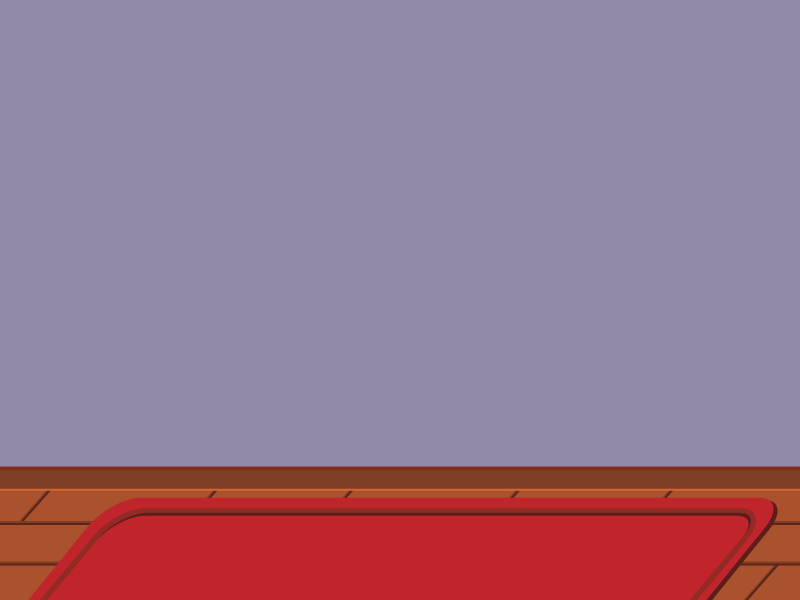
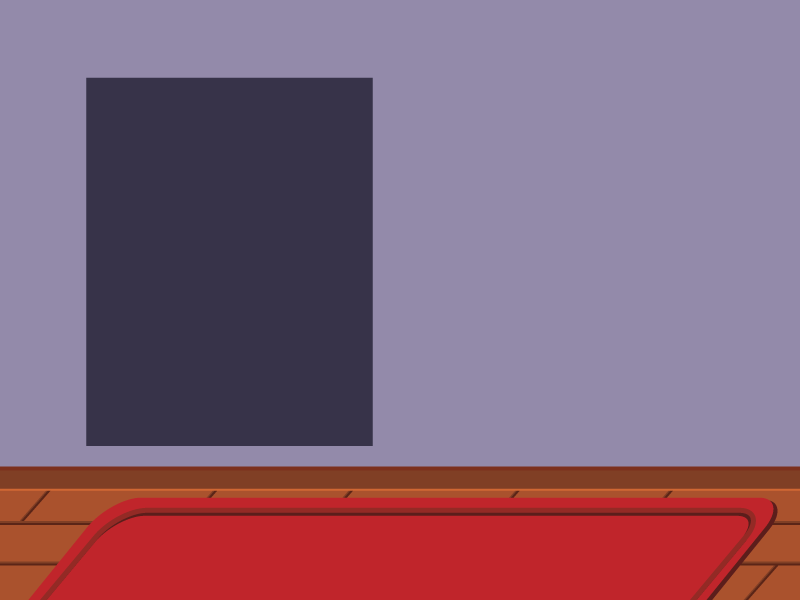
More score calc / new assets

Changed region(s): [[0.0938, 0.12, 0.4688, 0.75]]

diff --git a/src/scripts/state/game.ts b/src/scripts/state/game.ts
@@ -24,7 +24,6 @@ module Alak.State {
         subjectY: number = 76;
         brushSize: number = 5;
 
-        lookingAtSubject: boolean = true;
         palette: Entity.Palette;
         prevMousePos: Phaser.Point;
         debug: Phaser.Text;
@@ -52,13 +51,13 @@ module Alak.State {
             this.add.existing(this.palette);
 
             /*this.paintPots.forEach(function (paintpot: Entity.PaintPot) {
-                this.add.existing(paintpot);
-                paintpot.events.onInputDown.add(this.handleColourChange, this);
-            }, this);*/
+             this.add.existing(paintpot);
+             paintpot.events.onInputDown.add(this.handleColourChange, this);
+             }, this);*/
 
 
             if (this.debugEnabled) {
-                this.debug = new Phaser.Text(this.game, 400, this.game.height - 20, 'Hello', {
+                this.debug = new Phaser.Text(this.game, 10, 10, 'Hello', {
                     font: '12px Arial'
                 });
 
@@ -118,71 +117,88 @@ module Alak.State {
 
             //this.visibleBitmap.fill(237, 232, 218, 0.05);
 
-            /*if (this.debugEnabled) {
+            if (this.debugEnabled) {
                 let paintX = game.input.x - this.easelX;
                 let paintY = game.input.y - this.easelY;
 
                 if (paintX >= 0 && paintY >= 0 && paintX <= this.easelWidth && paintY <= this.easelHeight) {
                     let subjectCol = this.subjectComposite.getPixel(paintX, paintY);
-                    let easelCol = this.visibleBitmap.getPixel(paintX, paintY);
+                    let easelCol = this.finalBitmap.getPixel(paintX, paintY);
 
-                    subjectCol = subjectCol.r + ',' + subjectCol.g + ',' + subjectCol.b;
-                    easelCol = easelCol.r + ',' + easelCol.g + ',' + easelCol.b;
+                    subjectCol = this.rgb2Hex(subjectCol.r, subjectCol.g, subjectCol.b);
+                    easelCol = this.rgb2Hex(easelCol.r, easelCol.g, easelCol.b);
 
                     this.debug.text = paintX + ', ' + paintY + ' | Subject: ' + subjectCol + '| Easel: ' + easelCol;
+
+
                 }
-            }*/
+
+                /*let ctx = this.game.canvas.getContext('2d');
+                 ctx.save();
+
+                 ctx.strokeStyle = 'red';
+                 ctx.strokeRect(0, 0, 100, 100);
+
+                 ctx.fillStyle = 'rgb(' + subjectCol + ')';
+                 ctx.fillRect(100, 20, 10, 10);
+
+                 ctx.fillStyle = 'rgb(' + easelCol + ')';
+                 ctx.fillRect(150, 20, 10, 10);
+
+                 ctx.restore();*/
+            }
         }
 
         /*lookAtSubject() {
-            this.lookingAtSubject = !this.lookingAtSubject;
-            this.moveCanvas(this.lookingAtSubject);
-        }*/
+         this.lookingAtSubject = !this.lookingAtSubject;
+         this.moveCanvas(this.lookingAtSubject);
+         }*/
 
         /*moveCanvas(towards: boolean) {
-            let duration = 800;
-            let easing = Phaser.Easing.Quintic.InOut;
-            let easelMoveAmount = 315;
-            let subjectMoveAmount = 80;
+         let duration = 800;
+         let easing = Phaser.Easing.Quintic.InOut;
+         let easelMoveAmount = 315;
+         let subjectMoveAmount = 80;
 
-            if (towards) {
-                this.game.add.tween(this.easelImage.position).to({
-                    x: this.easelImage.x - easelMoveAmount
-                }, duration, easing, true);
+         if (towards) {
+         this.game.add.tween(this.easelImage.position).to({
+         x: this.easelImage.x - easelMoveAmount
+         }, duration, easing, true);
 
-                this.game.add.tween(this.easelCanvas.position).to({
-                    x: this.easelCanvas.x - easelMoveAmount
-                }, duration, easing, true);
+         this.game.add.tween(this.easelCanvas.position).to({
+         x: this.easelCanvas.x - easelMoveAmount
+         }, duration, easing, true);
 
-                this.game.add.tween(this.easelWood.position).to({
-                    x: this.easelWood.x - easelMoveAmount
-                }, duration, easing, true);
+         this.game.add.tween(this.easelWood.position).to({
+         x: this.easelWood.x - easelMoveAmount
+         }, duration, easing, true);
 
-                this.game.add.tween(this.subjectCompositeImage.position).to({
-                    x: this.subjectCompositeImage.x - subjectMoveAmount
-                }, duration, easing, true);
-            } else {
-                this.game.add.tween(this.easelImage.position).to({
-                    x: this.easelImage.x + easelMoveAmount
-                }, duration, easing, true);
+         this.game.add.tween(this.subjectCompositeImage.position).to({
+         x: this.subjectCompositeImage.x - subjectMoveAmount
+         }, duration, easing, true);
+         } else {
+         this.game.add.tween(this.easelImage.position).to({
+         x: this.easelImage.x + easelMoveAmount
+         }, duration, easing, true);
 
-                this.game.add.tween(this.easelCanvas.position).to({
-                    x: this.easelCanvas.x + easelMoveAmount
-                }, duration, easing, true);
+         this.game.add.tween(this.easelCanvas.position).to({
+         x: this.easelCanvas.x + easelMoveAmount
+         }, duration, easing, true);
 
-                this.game.add.tween(this.easelWood.position).to({
-                    x: this.easelWood.x + easelMoveAmount
-                }, duration, easing, true);
+         this.game.add.tween(this.easelWood.position).to({
+         x: this.easelWood.x + easelMoveAmount
+         }, duration, easing, true);
 
-                this.game.add.tween(this.subjectCompositeImage.position).to({
-                    x: this.subjectCompositeImage.x + subjectMoveAmount
-                }, duration, easing, true);
-            }
-        }*/
+         this.game.add.tween(this.subjectCompositeImage.position).to({
+         x: this.subjectCompositeImage.x + subjectMoveAmount
+         }, duration, easing, true);
+         }
+         }*/
 
         calcScore() {
             let score = 0;
             let total = 0;
+            let score2 = 0;
 
             // update BMDs
             this.finalBitmap.update();
@@ -200,15 +216,49 @@ module Alak.State {
 
             for (let i = 0, len = userChunkData.length; i < len; i++) {
                 total++;
-                if (subjectChunkData[i] !== 0 && userChunkData[i] === subjectChunkData[i]) {
+                if (userChunkData[i] === subjectChunkData[i]) {
                     score++;
+                }
+
+                if (subjectChunkData[i] !== 0 && userChunkData[i] === subjectChunkData[i]) {
+                    score2++;
                 }
             }
 
             console.log(score, (score / total) * 100);
+            console.log(score2, (score2 / total) * 100);
         }
 
         calcChunkData(sourceData: ImageData): number[] {
+            let chunkColours = [];
+            let chunkSize = 10;
+            let compWidth = sourceData.width * 4;
+            let chunkWidth = sourceData.width / chunkSize;
+
+            for (let i = 0; i < sourceData.data.length; i += 4) {
+                let x = (i % compWidth) / 4;
+                let y = Math.floor(i / compWidth);
+
+                let chunkIndex = (Math.floor(y / chunkSize) * chunkWidth) + Math.floor(x / chunkSize);
+
+                if (!chunkColours[chunkIndex]) {
+                    chunkColours[chunkIndex] = [];
+                }
+
+                let colour = this.rgb2Dec(sourceData.data[i], sourceData.data[i + 1], sourceData.data[i + 2]);
+                chunkColours[chunkIndex].push(colour);
+            }
+
+            // reduce each chunk array to a single value
+
+            chunkColours.forEach(function (chunk, i) {
+                chunkColours[i] = this.getMode(chunk);
+            }, this);
+
+            return chunkColours;
+        }
+
+        /*calcChunkData(sourceData: ImageData): number[] {
             let chunkSize = 10;
             let chunks = [];
             let k = 0;
@@ -219,18 +269,33 @@ module Alak.State {
 
             for (let y = 0; y < chunkHeight; y++) {
                 for (let x = 0; x < chunkWidth; x++) {
-                    let r = (y * pxChunkSize * chunkWidth) + (x * pxChunkSize);
 
-                    chunks[k] = data[r] << 16;
-                    chunks[k] = chunks[k] + (data[r + 1] << 8);
-                    chunks[k] = chunks[k] + data[r + 2];
+                    // find the mode
 
+                    let chunkColours = [];
+
+                    for (let i = 0; i < chunkSize; i++) {
+                        for (let j = 0; j < chunkSize; j++) {
+
+                            let r = (y * pxChunkSize * chunkWidth) + (x * pxChunkSize);
+
+                            let colour = this.rgb2Dec(data[r], data[r + 1], data[r + 2]);
+
+                            chunkColours.push(data[r])
+
+                            //chunkColourTotals
+                        }
+                    }
+
+                    chunks[k] = this.getMode(chunkColours);
+
+                    //chunks[k] = this.rgb2Dec(data[r], data[r + 1], data[r + 2]);
                     k++;
                 }
             }
 
             return chunks;
-        }
+        }*/
 
         createSubject() {
             let bodyPerm = Math.floor(Phaser.Math.random(1, Entity.Subject.BODY_PERMS + 1));
@@ -257,6 +322,23 @@ module Alak.State {
             this.subjectCompositeImage = this.subjectComposite.addToWorld(this.subjectX, this.subjectY);
             this.subjectCompositeImage.scale.x = 0.75;
             this.subjectCompositeImage.scale.y = 0.75;
+        }
+
+        rgb2Hex(r, g, b) {
+            return r.toString(16) + g.toString(16) + b.toString(16);
+        }
+
+        rgb2Dec(r, g, b) {
+            return (r << 16) + (g << 8) + b;
+        }
+
+        /**
+         * https://stackoverflow.com/a/20762713/423734
+         */
+        getMode(input: number[]) {
+            return input.sort((a, b) =>
+                input.filter(v => v === a).length - input.filter(v => v === b).length
+            ).pop();
         }
     }
 }

diff --git a/src/scripts/game.ts b/src/scripts/game.ts
@@ -4,7 +4,7 @@ module Alak {
     export class Game extends Phaser.Game {
 
         constructor() {
-            super(800, 600);
+            super(800, 600, Phaser.CANVAS);
 
             this.state.add('preloader', State.Preloader, true);
             this.state.add('game', State.Game);
